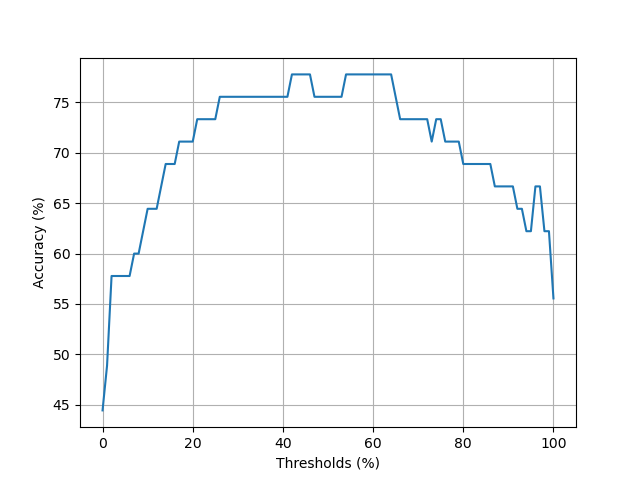
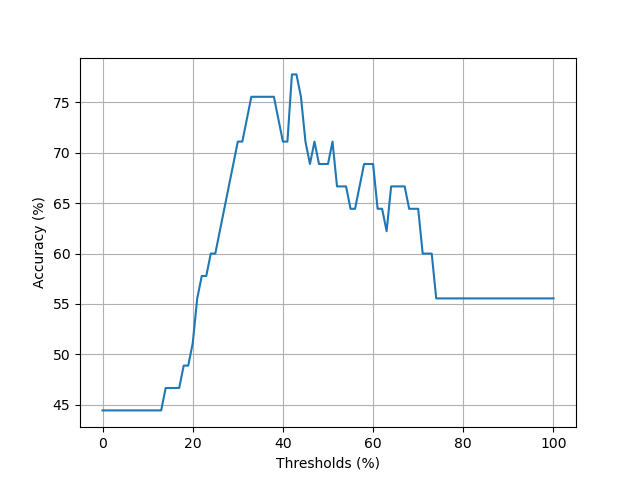
fixed small bug and added a test feature engineer for form

diff --git a/feature_engineer.py b/feature_engineer.py
@@ -1,27 +1,33 @@
-# Part 3 Code
+# Not any part, wanted to experiment and it did not really work
 from sklearn.linear_model import LogisticRegression
 from sklearn.preprocessing import MinMaxScaler
 import numpy as np
 import pandas as pd
-from sklearn.metrics import accuracy_score, log_loss, confusion_matrix
+from sklearn.metrics import accuracy_score, log_loss, confusion_matrix, roc_auc_score
 model=LogisticRegression()
 
 df=pd.read_csv('Data.csv')
 df.columns=['Timestamps','Screen', 'Sleep', 'Major_Assessments', 'Hard_Classes', 'HoursHW', 'Form', 'Stress']
 
 df['Stress']=np.where(df['Stress'].isin(['Low', 'Medium']), 0, 1)
-
 features=['Screen', 'Sleep', 'Major_Assessments', 'Hard_Classes', 'HoursHW', 'Form']
 X=df[features]
 scaler=MinMaxScaler()
 X_scaled=scaler.fit_transform(X)
+X_scaled = pd.DataFrame(X_scaled, columns=X.columns, index=X.index)
+
+X_scaled['parabolic_form']=(X_scaled['Form']-0.5)**2
+print(X_scaled)
+features=['Screen', 'Sleep', 'Major_Assessments', 'Hard_Classes', 'HoursHW', 'parabolic_form']
+df.drop(columns='Form')
 y=df['Stress']
 
 model.fit(X_scaled, y)
-predictions_prob=model.predict_proba(X_scaled)
+predictions_prob=model.predict_proba(X_scaled)[:, 1]
 predictions=model.predict(X_scaled)
 print(f"Accuracy: {accuracy_score(y, predictions)}")
 print(f"Log Loss: {log_loss(y, predictions_prob)}")
 print(features)
 print(model.coef_)
 print(confusion_matrix(predictions, y))
+print(roc_auc_score(y, predictions_prob))

diff --git a/Logistic_Recall_Precision_ROC.py b/Logistic_Recall_Precision_ROC.py
@@ -18,7 +18,7 @@ X_scaled=scaler.fit_transform(X)
 y=df['Stress']
 
 model.fit(X_scaled, y)
-predictions_prob=model.predict_proba(X)[:,1]
+predictions_prob=model.predict_proba(X_scaled)[:,1]
 
 #Precision Recall Graph, not sure why I did it but it came up in documentation so yeah.
 import matplotlib.pyplot as plt

diff --git a/logistic_thresholds.py b/logistic_thresholds.py
@@ -18,8 +18,8 @@ X_scaled=scaler.fit_transform(X)
 y=df['Stress']
 
 model.fit(X_scaled, y)
-predictions_prob=model.predict_proba(X)[:,1]
-print(model.predict_proba(X))
+predictions_prob=model.predict_proba(X_scaled)[:,1]
+print(model.predict_proba(X_scaled))
 scores=[]
 
 for i in range(0,101):

diff --git a/README.md b/README.md
@@ -1,1 +1,2 @@
 # ChoateStress
+
